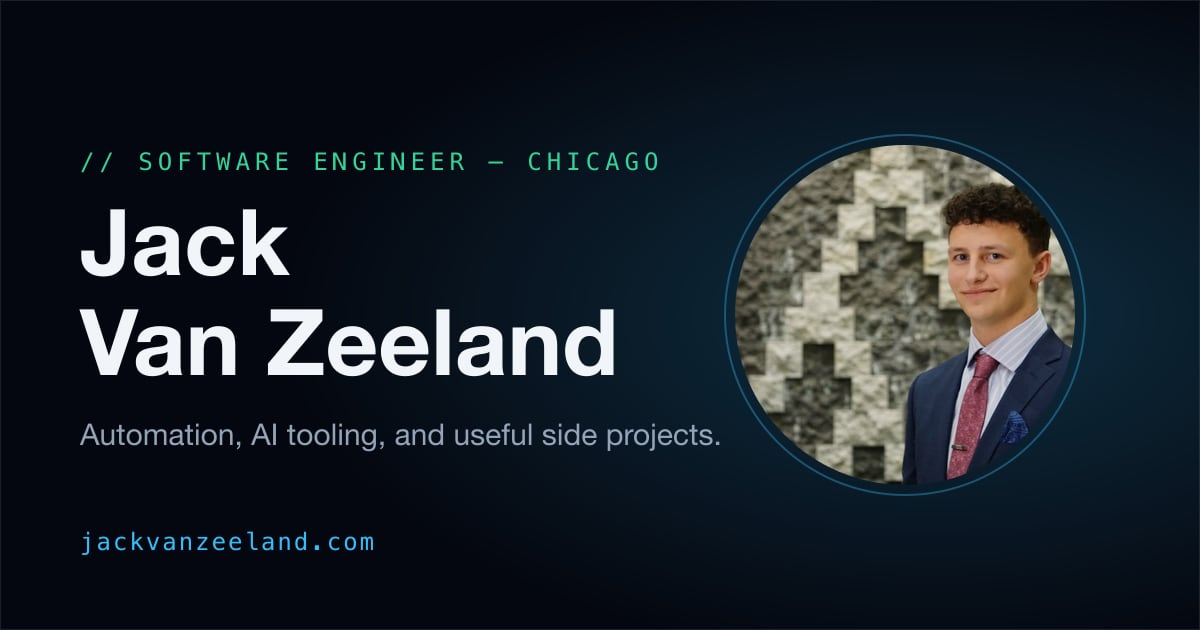
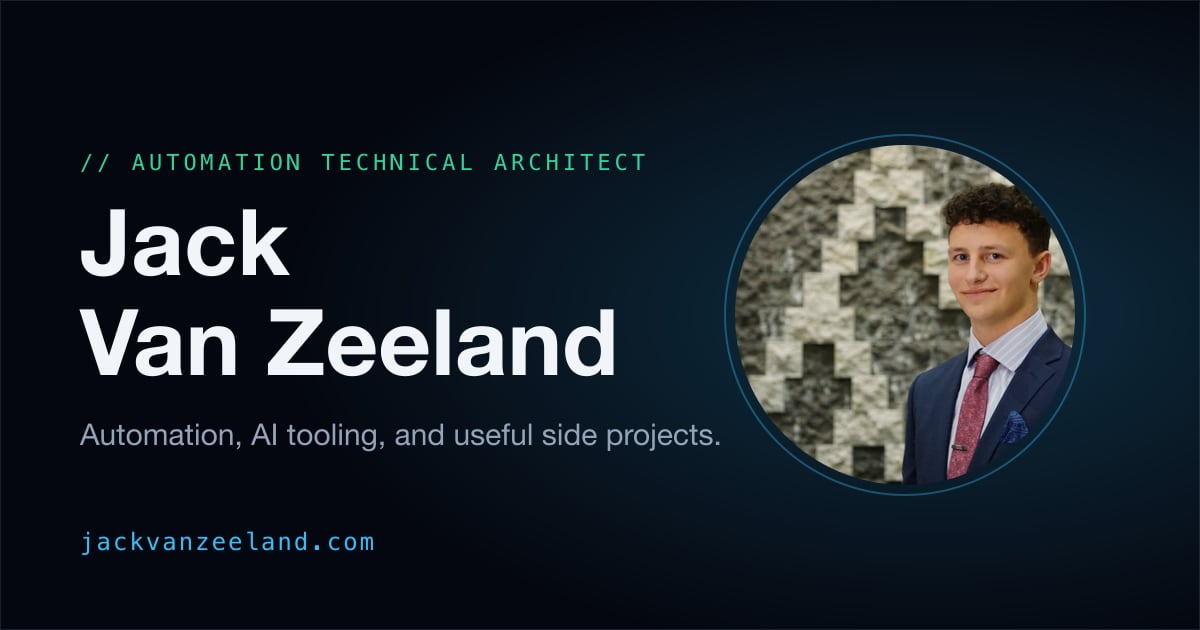
Auto-commit: 10 file(s) changed
- index.html
  - public/data/timeline.json
  - public/files/resume.json
  - public/og/default.jpg
  - scripts/generate-og-images.ts
  - src/app/routeMeta.ts
  - src/app/seo.ts
  - src/app/views/home.ts
  - src/app/views/homeTerminal.ts
  - src/components/ResumeManager.ts

Changed region(s): [[0.0617, 0.2413, 0.555, 0.2714]]

diff --git a/index.html b/index.html
@@ -8,7 +8,7 @@
          sync on client navigation (both via src/app/seo.ts). -->
     <meta
       name="description"
-      content="Jack Van Zeeland is a Chicago software engineer who loves building things — AI tooling, automation, and a growing pile of side projects you can try."
+      content="Jack Van Zeeland is a Chicago automation technical architect who loves building things — AI tooling, data pipelines, and side projects you can try."
     />
     <meta name="author" content="Jack Van Zeeland" />
     <meta name="robots" content="index, follow, max-image-preview:large" />
@@ -29,21 +29,21 @@
     <!-- Open Graph / X -->
     <meta property="og:type" content="profile" />
     <meta property="og:url" content="https://jackvanzeeland.com/" />
-    <meta property="og:title" content="Jack Van Zeeland — Software Engineer" />
-    <meta property="og:description" content="Jack Van Zeeland is a Chicago software engineer who loves building things — AI tooling, automation, and a growing pile of side projects you can try." />
+    <meta property="og:title" content="Jack Van Zeeland — Automation Technical Architect" />
+    <meta property="og:description" content="Jack Van Zeeland is a Chicago automation technical architect who loves building things — AI tooling, data pipelines, and side projects you can try." />
     <meta property="og:image" content="https://jackvanzeeland.com/og/default.jpg" />
     <meta property="og:image:width" content="1200" />
     <meta property="og:image:height" content="630" />
-    <meta property="og:image:alt" content="Jack Van Zeeland — Software Engineer, Chicago" />
+    <meta property="og:image:alt" content="Jack Van Zeeland — Automation Technical Architect, Chicago" />
     <meta property="og:site_name" content="Jack Van Zeeland" />
     <meta property="og:locale" content="en_US" />
     <meta name="twitter:card" content="summary_large_image" />
-    <meta name="twitter:title" content="Jack Van Zeeland — Software Engineer" />
-    <meta name="twitter:description" content="Jack Van Zeeland is a Chicago software engineer who loves building things — AI tooling, automation, and a growing pile of side projects you can try." />
+    <meta name="twitter:title" content="Jack Van Zeeland — Automation Technical Architect" />
+    <meta name="twitter:description" content="Jack Van Zeeland is a Chicago automation technical architect who loves building things — AI tooling, data pipelines, and side projects you can try." />
     <meta name="twitter:image" content="https://jackvanzeeland.com/og/default.jpg" />
-    <meta name="twitter:image:alt" content="Jack Van Zeeland — Software Engineer, Chicago" />
+    <meta name="twitter:image:alt" content="Jack Van Zeeland — Automation Technical Architect, Chicago" />
 
-    <title>Jack Van Zeeland — Software Engineer</title>
+    <title>Jack Van Zeeland — Automation Technical Architect</title>
 
     <!-- schema.org graph, written by src/app/seo.ts -->
     <script type="application/ld+json" id="structured-data"></script>

diff --git a/src/app/routeMeta.ts b/src/app/routeMeta.ts
@@ -24,9 +24,9 @@ export interface RouteMeta {
 
 export const routeMeta: Record<RouteName, RouteMeta> = {
     home: {
-        title: 'Jack Van Zeeland — Software Engineer',
+        title: 'Jack Van Zeeland — Automation Technical Architect',
         description:
-            'Jack Van Zeeland is a Chicago software engineer who loves building things — AI tooling, automation, and a growing pile of side projects you can try.',
+            'Jack Van Zeeland is a Chicago automation technical architect who loves building things — AI tooling, data pipelines, and side projects you can try.',
         accent: '#38bdf8'
     },
     work: {
@@ -38,13 +38,13 @@ export const routeMeta: Record<RouteName, RouteMeta> = {
     workDetail: {
         // Placeholder until the project resolves; seo.projectSeo() replaces it
         title: 'Projects — Jack Van Zeeland',
-        description: 'A side project by Chicago software engineer Jack Van Zeeland.',
+        description: 'A side project by Jack Van Zeeland, an automation technical architect in Chicago.',
         accent: '#818cf8'
     },
     journey: {
         title: 'Journey — Jack Van Zeeland',
         description:
-            'Career timeline of software engineer Jack Van Zeeland: UW–Madison data science and finance, business automation at Echo Global Logistics, and certifications.',
+            'Career timeline of Jack Van Zeeland: UW–Madison data science and finance, intern to Automation Technical Architect at Echo Global Logistics, and certifications.',
         accent: '#34d399'
     },
     beyond: {
@@ -56,7 +56,7 @@ export const routeMeta: Record<RouteName, RouteMeta> = {
     contact: {
         title: 'Contact — Jack Van Zeeland',
         description:
-            'Get in touch with Jack Van Zeeland, a Chicago software engineer — email, LinkedIn, GitHub, or download the resume.',
+            'Get in touch with Jack Van Zeeland, an automation technical architect in Chicago — email, LinkedIn, GitHub, or download the resume.',
         accent: '#38bdf8'
     },
     notFound: {

diff --git a/src/components/ResumeManager.ts b/src/components/ResumeManager.ts
@@ -83,7 +83,7 @@ export class ResumeManager {
         return {
             personalInfo: {
                 name: "Jack Van Zeeland",
-                title: "Software Engineer",
+                title: "Automation Technical Architect",
                 contact: {
                     email: "jack.vanzeeland@outlook.com",
                     phone: "920.883.0243",
@@ -103,8 +103,15 @@ export class ResumeManager {
             experience: [
                 {
                     company: "Echo Global Logistics",
+                    position: "Automation Technical Architect",
+                    duration: "November 2026 - Present",
+                    responsibilities: [],
+                    technologies: []
+                },
+                {
+                    company: "Echo Global Logistics",
                     position: "Business Automation Engineer",
-                    duration: "June 2025 - Present",
+                    duration: "June 2025 - October 2026",
                     responsibilities: [
                         "Developed 8 automation solutions saving ~13,000 hours of work and $400,000 annually",
                         "Built Copilot agent reducing support ticket response time by 40%",

diff --git a/src/app/seo.ts b/src/app/seo.ts
@@ -50,9 +50,9 @@ export const PERSON: JsonLd = {
     name: 'Jack Van Zeeland',
     url: `${SITE_URL}/`,
     image: absoluteUrl('/images/profile.jpg'),
-    jobTitle: 'Software Engineer',
+    jobTitle: 'Automation Technical Architect',
     description:
-        'Chicago software engineer specializing in automation, AI tooling, and interactive web development.',
+        'Chicago automation technical architect specializing in automation, AI tooling, and interactive web development.',
     worksFor: { '@type': 'Organization', name: 'Echo Global Logistics' },
     alumniOf: { '@type': 'CollegeOrUniversity', name: 'University of Wisconsin–Madison' },
     address: {
@@ -145,7 +145,7 @@ export function routeSeo(name: RouteName, path: string): PageSeo {
         title: meta.title,
         description: meta.description,
         image: DEFAULT_OG_IMAGE,
-        imageAlt: 'Jack Van Zeeland — Software Engineer, Chicago',
+        imageAlt: 'Jack Van Zeeland — Automation Technical Architect, Chicago',
         ogType: name === 'home' ? 'profile' : 'website',
         noindex: name === 'notFound',
         jsonLd

diff --git a/scripts/generate-og-images.ts b/scripts/generate-og-images.ts
@@ -98,7 +98,7 @@ async function defaultCard(): Promise<Buffer> {
     const svg = `<svg width="${W}" height="${H}" xmlns="http://www.w3.org/2000/svg">
       ${bg(C.cyan)}
       <circle cx="905" cy="315" r="${size / 2 + 10}" fill="none" stroke="${C.cyan}" stroke-opacity="0.35" stroke-width="2"/>
-      <text x="80" y="170" font-family="${MONO}" font-size="24" letter-spacing="5" fill="${C.teal}">// SOFTWARE ENGINEER — CHICAGO</text>
+      <text x="80" y="170" font-family="${MONO}" font-size="22" letter-spacing="4" fill="${C.teal}">// AUTOMATION TECHNICAL ARCHITECT</text>
       <text x="80" y="275" font-family="${SANS}" font-weight="700" font-size="92" fill="${C.text}">Jack</text>
       <text x="80" y="375" font-family="${SANS}" font-weight="700" font-size="92" fill="${C.text}">Van Zeeland</text>
       <text x="80" y="445" font-family="${SANS}" font-size="30" fill="${C.dim}">Automation, AI tooling, and useful side projects.</text>

diff --git a/src/app/views/homeTerminal.ts b/src/app/views/homeTerminal.ts
@@ -136,7 +136,7 @@ const COMMANDS: Record<string, Handler> = {
     whoami: (_args, ctx) =>
         one(
             seg(
-                `Jack Van Zeeland: software engineer in Chicago. UW–Madison, Data Science & Finance. Business Automation Engineer at Echo Global Logistics. ${ctx.projectCount} side projects and counting.`
+                `Jack Van Zeeland: automation technical architect in Chicago. UW–Madison, Data Science & Finance. Automation Technical Architect at Echo Global Logistics. ${ctx.projectCount} side projects and counting.`
             )
         ),
     uptime: (_args, ctx) => {

diff --git a/src/app/views/home.ts b/src/app/views/home.ts
@@ -70,7 +70,7 @@ const view: View = {
     const hero = el("section", "home-hero container-x");
     const heroText = el("div", "home-hero-text");
 
-    const eyebrow = el("p", "eyebrow", "// SOFTWARE ENGINEER — CHICAGO");
+    const eyebrow = el("p", "eyebrow", "// AUTOMATION TECHNICAL ARCHITECT — CHICAGO");
     const h1 = el("h1", "home-name");
     h1.append("Jack ", el("br"), "Van Zeeland");
     mounted = true;
